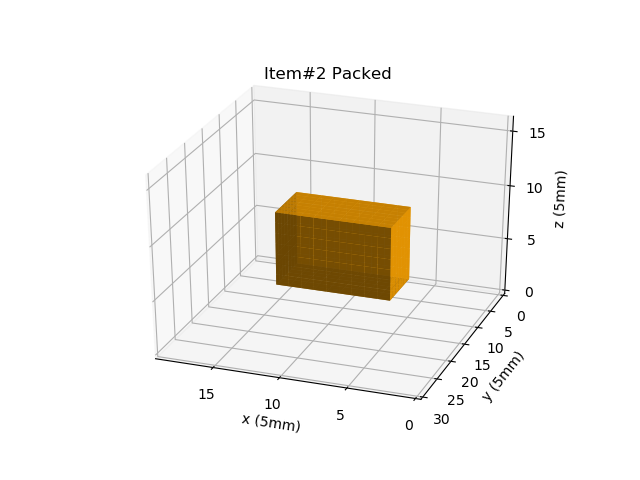
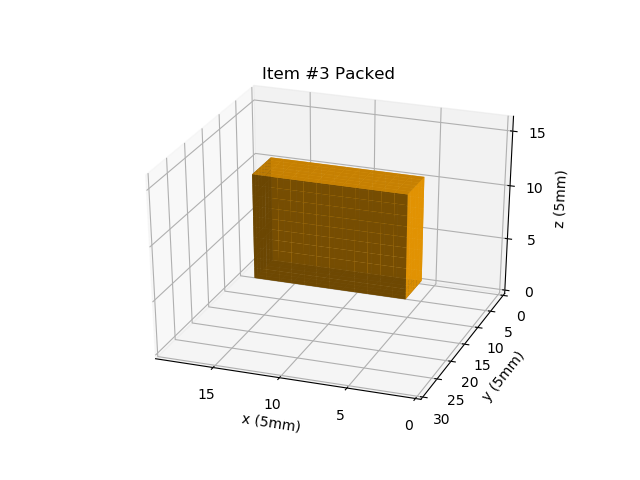
refine constraints

Changed region(s): [[0.375, 0.3125, 0.6875, 0.625], [0.4062, 0.125, 0.625, 0.1875]]

diff --git a/packing_gurobi.py b/packing_gurobi.py
@@ -171,13 +171,12 @@ def packing(container_size, item_size, enlarge=False, visualization=False):
         
         # non-overlapping
         for j in range(n_item):
-            model.addConstr(x[j] - x[i] - a[i] >= -U * o_x[i, j], name='overlapping_x_0_%d_%d'%(i,j))
-            model.addConstr(x[i] - x[j] - a[j] >= -U * o_x[j, i], name='overlapping_x_0_%d_%d'%(j,i))
-            model.addConstr(y[j] - y[i] - b[i] >= -U * o_y[i, j], name='overlapping_y_0_%d_%d'%(i,j))
-            model.addConstr(y[i] - y[j] - b[j] >= -U * o_y[j, i], name='overlapping_y_1_%d_%d'%(j,i))
-            model.addConstr(z[j] - z[i] - c[i] >= -U * o_z[i, j], name='overlapping_z_0_%d_%d'%(i,j))
-            model.addConstr(z[i] - z[j] - c[j] >= -U * o_z[j, i], name='overlapping_z_1_%d_%d'%(j,i))
-            model.addConstr(o_x[i, j] + o_x[j, i] + o_y[i, j] + o_y[j, i] + o_z[j, i] + o_z[j, i] <= 5, name='overlapping_sum_%d_%d'%(i,j))
+            if j != i:
+                model.addConstr(x[j] - x[i] - a[i] >= -U * o_x[i, j], name='overlapping_x_0_%d_%d'%(i,j))
+                model.addConstr(y[j] - y[i] - b[i] >= -U * o_y[i, j], name='overlapping_y_0_%d_%d'%(i,j))
+                model.addConstr(z[j] - z[i] - c[i] >= -U * o_z[i, j], name='overlapping_z_0_%d_%d'%(i,j))
+                if j > i:
+                    model.addConstr(o_x[i, j] + o_x[j, i] + o_y[i, j] + o_y[j, i] + o_z[j, i] + o_z[j, i] <= 5, name='overlapping_sum_%d_%d'%(i,j))
             
         # max height
         model.addConstr(max_height >= z[i] + c[i], name='max_height_%d'%i)

diff --git a/param.py b/param.py
@@ -53,4 +53,4 @@ open_grip = 'OUTPUT 48 OFF\n'
 
 margin = 5
 container_size = [95, 150, 80]
-item_size = [[3, 2, 1, 3, 4, 6, 9, 1, 8, 7], [3, 2, 1, 2, 8, 1, 7, 9, 10, 6], [3, 2, 1, 1, 2, 8, 1, 7, 9, 10]]
+item_size = [[50, 50, 60, 60, 55, 40], [50, 45, 45, 50, 50, 30], [50, 30, 30, 30, 35, 30]]
